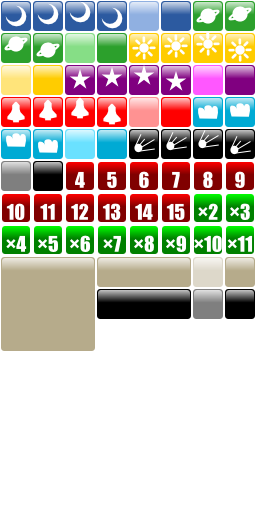
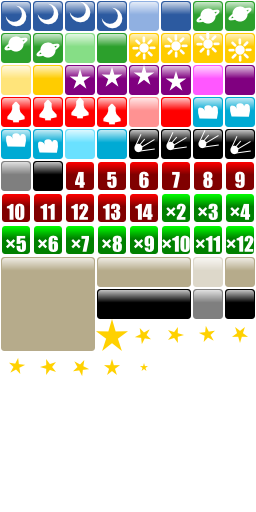
Implemented pop effect and fixed combo effect.

diff --git a/Tetatt/Tetatt/Graphics/EffPop.cs b/Tetatt/Tetatt/Graphics/EffPop.cs
@@ -1,0 +1,96 @@
+using System;
+using System.Collections.Generic;
+using System.Linq;
+using System.Text;
+using Microsoft.Xna.Framework.Graphics;
+using Microsoft.Xna.Framework;
+using Tetatt.GamePlay;
+
+namespace Tetatt.Graphics
+{
+    public class EffPop : DrawableGameComponent
+    {
+        private static AnimFrame[] frames =
+        {
+            new AnimFrame(84, 3),
+            new AnimFrame(85, 3),
+            new AnimFrame(86, 3),
+            new AnimFrame(87, 3),
+            new AnimFrame(88, 3),
+            new AnimFrame(89, 3),
+            new AnimFrame(90, 3),
+            new AnimFrame(91, 3),
+            new AnimFrame(92, 3)
+        };
+
+        private int duration;
+        private Vector2 pos;
+        private int offset;
+        private int mov;
+        private SpriteBatch spriteBatch;
+        private Anim anim;
+
+        public EffPop(Game game, Vector2 pos)
+            : base(game)
+        {
+            this.pos = pos;
+            duration = 9*3+1;
+            offset = DrawablePlayField.blockSize / 2;
+            mov = 3;
+            anim = new Anim(AnimType.Once, frames);
+        }
+
+        protected override void LoadContent()
+        {
+            spriteBatch = new SpriteBatch(GraphicsDevice);
+            base.LoadContent();
+        }
+
+        public override void Update(GameTime gameTime)
+        {
+            anim.Update();
+
+            if (mov > 0 && (duration & 1) == 1)
+            {
+                mov--;
+            }
+            offset += mov;
+
+            duration--;
+            if (duration <= 0)
+            {
+                Game.Components.Remove(this);
+            }
+
+            base.Update(gameTime);
+        }
+
+        public override void Draw(GameTime gameTime)
+        {
+            spriteBatch.Begin();
+            spriteBatch.Draw(
+                DrawablePlayField.blocksTileSet.Texture,
+                pos + new Vector2(-offset, -offset),
+                DrawablePlayField.blocksTileSet.SourceRectangle(anim.GetFrame()),
+                Color.White);
+            spriteBatch.Draw(
+                DrawablePlayField.blocksTileSet.Texture,
+                pos + new Vector2(offset, -offset),
+                DrawablePlayField.blocksTileSet.SourceRectangle(anim.GetFrame()),
+                Color.White);
+            spriteBatch.Draw(
+                DrawablePlayField.blocksTileSet.Texture,
+                pos + new Vector2(-offset, offset),
+                DrawablePlayField.blocksTileSet.SourceRectangle(anim.GetFrame()),
+                Color.White);
+            spriteBatch.Draw(
+                DrawablePlayField.blocksTileSet.Texture,
+                pos + new Vector2(offset, offset),
+                DrawablePlayField.blocksTileSet.SourceRectangle(anim.GetFrame()),
+                Color.White);
+            spriteBatch.End();
+
+            base.Draw(gameTime);
+        }
+    }
+}

diff --git a/Tetatt/Tetatt/GamePlay/Popper.cs b/Tetatt/Tetatt/GamePlay/Popper.cs
@@ -57,8 +57,6 @@ namespace Tetatt.GamePlay
                     chain.AddGarbage(new GarbageInfo(evil - 2, GarbageType.Evil)); // -2 to specify number of garbage lines
                 }
 
-                bool offscreen = chain.TopMostBlockIndex / PlayField.width < (PlayField.firstVisibleRow - 3); // If the block is too much offscreen
-
                 if (chain.numBlocks > 3)
                 {
                     // A combo.
@@ -69,13 +67,10 @@ namespace Tetatt.GamePlay
                         bBonusStop = true;
                     pf.AddScore((chain.numBlocks - 1) * 10);
 
-                    if (!offscreen) // Only add effect if it's onscreen
-                    {
-                        pf.ActivatePerformedCombo(
-                            chain.TopMostBlockIndex,
-                            false,
-                            chain.numBlocks);
-                    }
+                    pf.ActivatePerformedCombo(
+                        chain.TopMostBlockIndex,
+                        false,
+                        chain.numBlocks);
 
                     if (chain.length > 1)
                     {
@@ -83,13 +78,10 @@ namespace Tetatt.GamePlay
                         pf.DelayScroll(chain.numBlocks * 10);
                         pf.AddScore(50 + (chain.length - 1) * 20 * chain.length);
 
-                        if (!offscreen)
-                        {
-                            pf.ActivatePerformedCombo(
-                                chain.TopMostBlockIndex - PlayField.width,
-                                true,
-                                chain.length);
-                        }
+                        pf.ActivatePerformedCombo(
+                            chain.TopMostBlockIndex - PlayField.width,
+                            true,
+                            chain.length);
                    }
                 }
                 else if (chain.length > 1)
@@ -98,13 +90,10 @@ namespace Tetatt.GamePlay
                     pf.DelayScroll(chain.numBlocks * 10);
                     pf.AddScore(50 + (chain.length - 1) * 20 * chain.length);
 
-                    if (!offscreen)
-                    {
-                        pf.ActivatePerformedCombo(
-                            chain.TopMostBlockIndex,
-                            true,
-                            chain.length);
-                    }
+                    pf.ActivatePerformedCombo(
+                        chain.TopMostBlockIndex,
+                        true,
+                        chain.length);
                 }
 
                 if (bBonusStop)

diff --git a/Tetatt/Tetatt/Graphics/EffCombo.cs b/Tetatt/Tetatt/Graphics/EffCombo.cs
@@ -14,6 +14,7 @@ namespace Tetatt.Graphics
         private int duration;
         private Vector2 pos;
         private SpriteBatch spriteBatch;
+        private float radius;
 
         public EffCombo(Game game, Vector2 pos, bool isChain, int count)
             : base(game)
@@ -23,6 +24,7 @@ namespace Tetatt.Graphics
             // TODO difficulty
             //g_game->GetLevelData()->effComboDuration
             duration = 80;
+            radius = 70;
         }
 
         protected override void LoadContent()
@@ -33,17 +35,20 @@ namespace Tetatt.Graphics
 
         public override void Update(GameTime gameTime)
         {
-            base.Update(gameTime);
+            pos.Y -= duration >> 5;
+            radius *= 0.9f;
+
             duration--;
             if (duration <= 0)
             {
                 Game.Components.Remove(this);
             }
+
+            base.Update(gameTime);
         }
 
         public override void Draw(GameTime gameTime)
         {
-            pos.Y -= duration >> 5;
             spriteBatch.Begin();
             spriteBatch.Draw(
                 DrawablePlayField.blocksTileSet.Texture,
@@ -51,6 +56,23 @@ namespace Tetatt.Graphics
                 DrawablePlayField.blocksTileSet.SourceRectangle(tile),
                 Color.White);
             spriteBatch.End();
+
+            spriteBatch.Begin();
+            float r = radius + DrawablePlayField.blockSize;
+            int t = Math.Abs(duration - 80);
+            for (int i = 0; i < 6; i++)
+            {
+                float theta = (t + 60 * i) * (MathHelper.Pi / 180) * 7;
+                spriteBatch.Draw(
+                    DrawablePlayField.blocksTileSet.Texture,
+                    new Vector2(
+                        (r * (float)Math.Cos(theta) + pos.X),
+                        (r * (float)Math.Sin(theta) + pos.Y)),
+                    DrawablePlayField.blocksTileSet.SourceRectangle(91),
+                    Color.White);
+            }
+            spriteBatch.End();
+
             base.Draw(gameTime);
         }
     }

diff --git a/Tetatt/Tetatt/GamePlay/PlayField.cs b/Tetatt/Tetatt/GamePlay/PlayField.cs
@@ -573,7 +573,7 @@ namespace Tetatt.GamePlay
                             if (!field[check,col].Popped)
                             {
                                 field[check,col].Chain = tmpChain;
-                                popper.AddBlock(field[check,col], (height - check)*width+col);
+                                popper.AddBlock(field[check,col], check*width+col);
                                 field[check,col].Popped = true;
                             }
                         }
@@ -795,7 +795,7 @@ namespace Tetatt.GamePlay
         public void ActivatePerformedCombo(int pos, bool isChain, int count)
         {
             ComboEventArgs eventArgs = new ComboEventArgs(
-                new Pos(height - pos / width, pos % width),
+                new Pos(pos / width, pos % width),
                 isChain,
                 count);
             PerformedCombo(this, eventArgs);

diff --git a/Tetatt/Tetatt/TetattGame.cs b/Tetatt/Tetatt/TetattGame.cs
@@ -203,7 +203,7 @@ namespace Tetatt
 
             EffCombo eff = new EffCombo(
                 this,
-                playField.PosToVector(ce.pos) + dpf.Offset,
+                dpf.PosToVector(ce.pos) + dpf.Offset,
                 ce.isChain,
                 ce.count);
             Components.Add(eff);
@@ -232,8 +232,13 @@ namespace Tetatt
 
         private void playField_Popped(object sender, PoppedEventArgs pe)
         {
+            DrawablePlayField dpf = (DrawablePlayField)sender;
+
             SoundEffect effect = popEffect[Math.Min(pe.chain.length, 4) - 1];
             effect.Play(1, pe.chain.popCount / 10.0f, 0);
+
+            EffPop eff = new EffPop(this, dpf.PosToVector(pe.pos) + dpf.Offset);
+            Components.Add(eff);
 
             if (pe.chain.popCount < 10)
             {

diff --git a/Tetatt/Tetatt/GamePlay/Chain.cs b/Tetatt/Tetatt/GamePlay/Chain.cs
@@ -7,6 +7,14 @@ namespace Tetatt.GamePlay
 {
     public class Chain
     {
+        private class DescendingComparer<T> : IComparer<T> where T : IComparable<T>
+        {
+            public int Compare(T x, T y)
+            {
+                return y.CompareTo(x);
+            }
+        }
+
         private SortedDictionary<int,Block> blocks;
         public int numBlocks {
             get {
@@ -22,7 +30,7 @@ namespace Tetatt.GamePlay
 
         public Chain()
         {
-            blocks = new SortedDictionary<int, Block>();
+            blocks = new SortedDictionary<int, Block>(new DescendingComparer<int>());
             length = 0;
             activeBlocks = 0;
             sentCombo = false;
